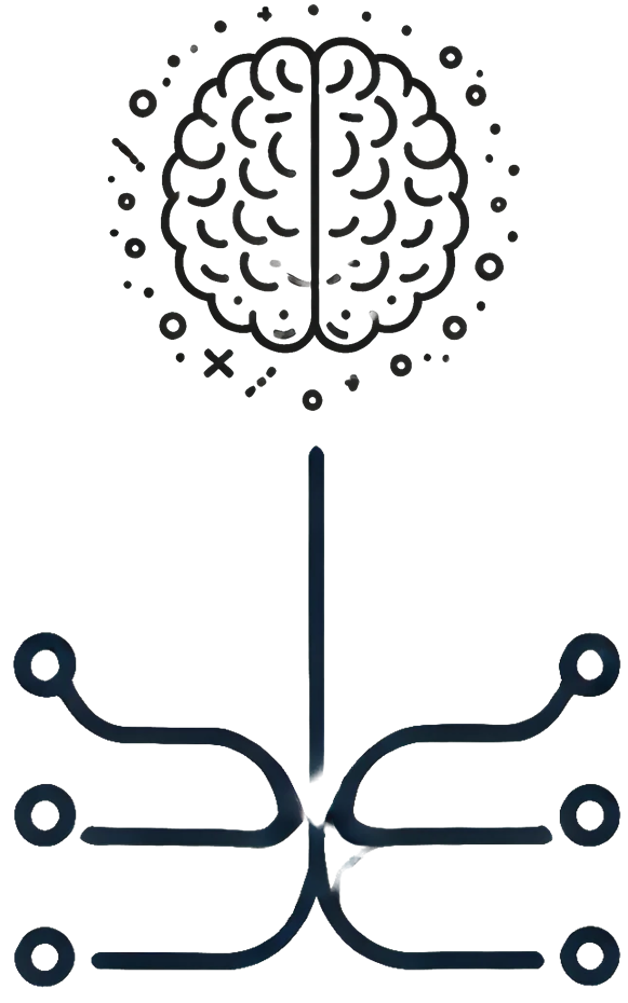
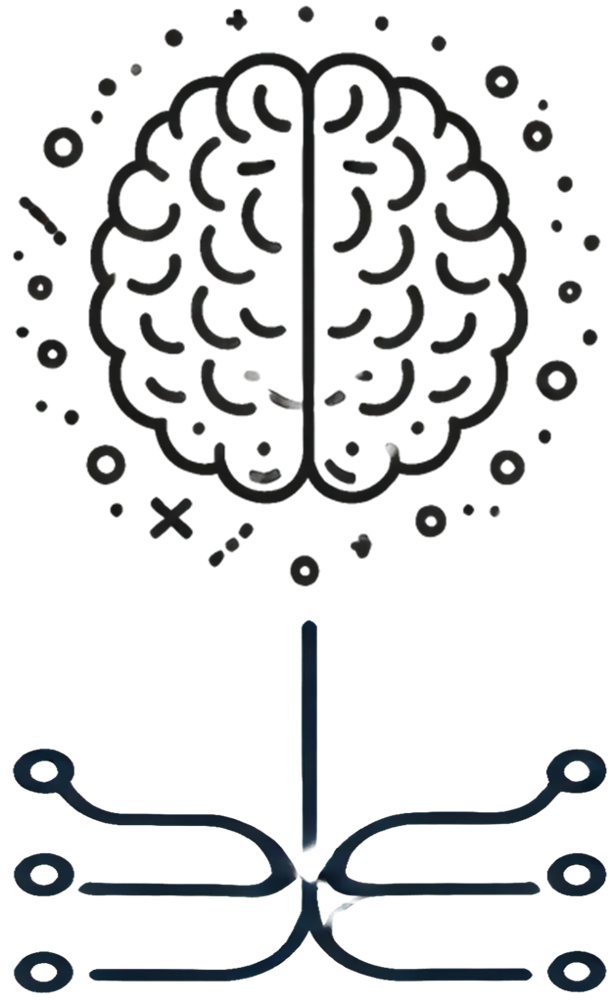
SMP slides: update benefits images

diff --git a/modules/softwaremanagementplans/slides-smp.md b/modules/softwaremanagementplans/slides-smp.md
@@ -102,11 +102,11 @@ It also addresses the intended lifespan, and allocates responsibility: who makes
 
 <div style="display: grid; grid-template-columns: repeat(3, 1fr); gap: 10px; text-align: center;">
   <div>
-    <img src="media/benefits/thinking.png" style="height: 100px;">
+    <img src="media/benefits/purpose.png" style="height: 100px;">
     <sub>... thinking about<br>purpose & necessity</sub>
   </div>
   <div>
-    <img src="media/benefits/resources.png" style="height: 100px;">
+    <img src="media/benefits/resources2.png" style="height: 100px;">
     <sub>... planning<br>resource management</sub>
   </div>
   <div>
@@ -121,7 +121,7 @@ It also addresses the intended lifespan, and allocates responsibility: who makes
     <sub>... structuring<br>development</sub>
   </div>
   <div>
-    <img src="./media/benefits/explicit.png" style="height: 100px;">
+    <img src="./media/benefits/explicit3.png" style="height: 100px;">
     <sub>... making technical<br>choices explicit</sub>
   </div>
   <div>
